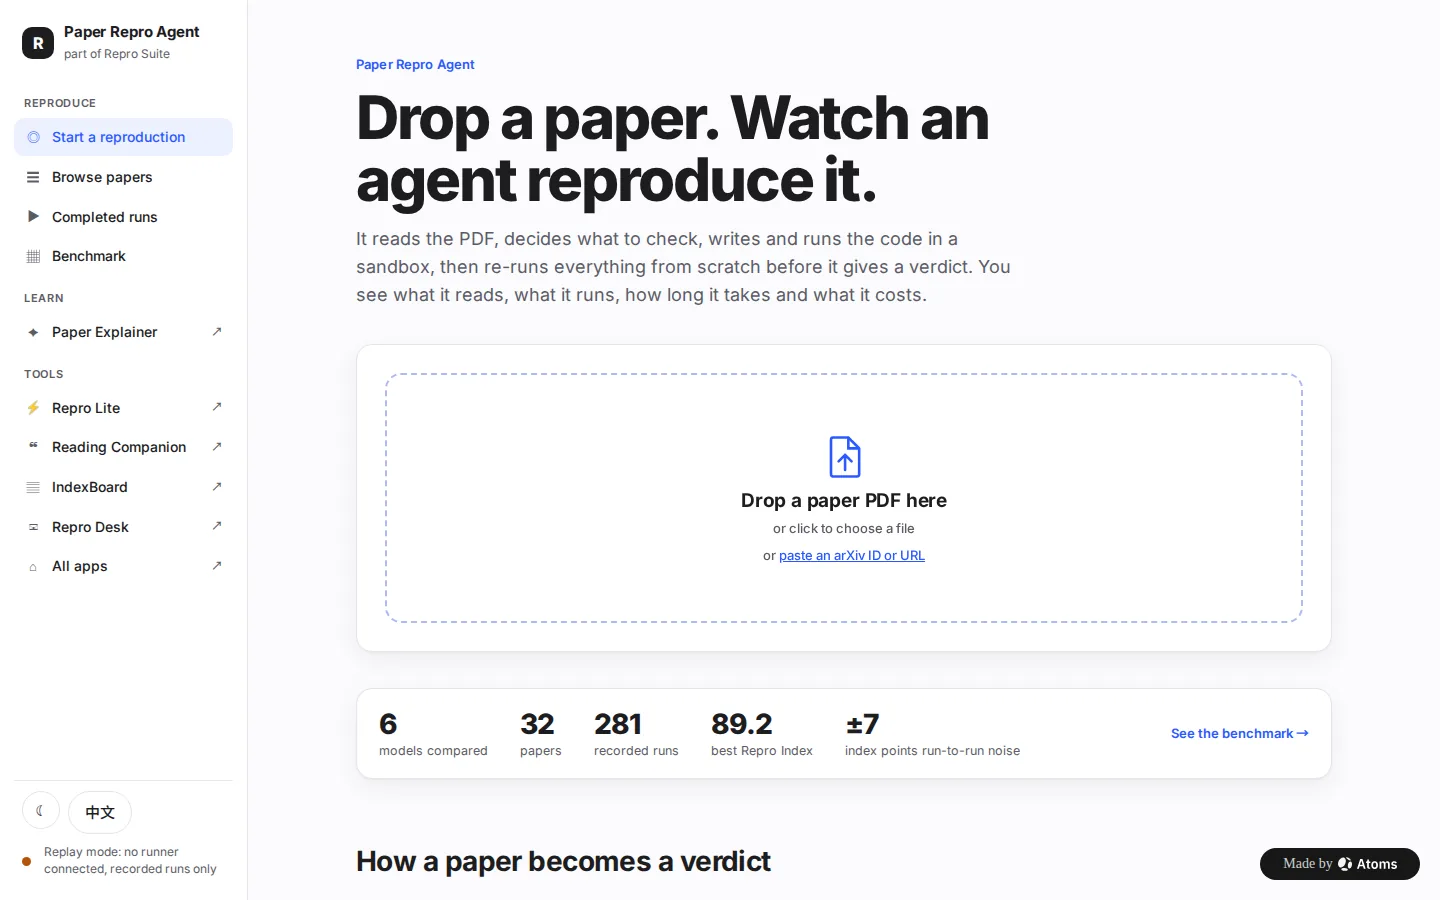
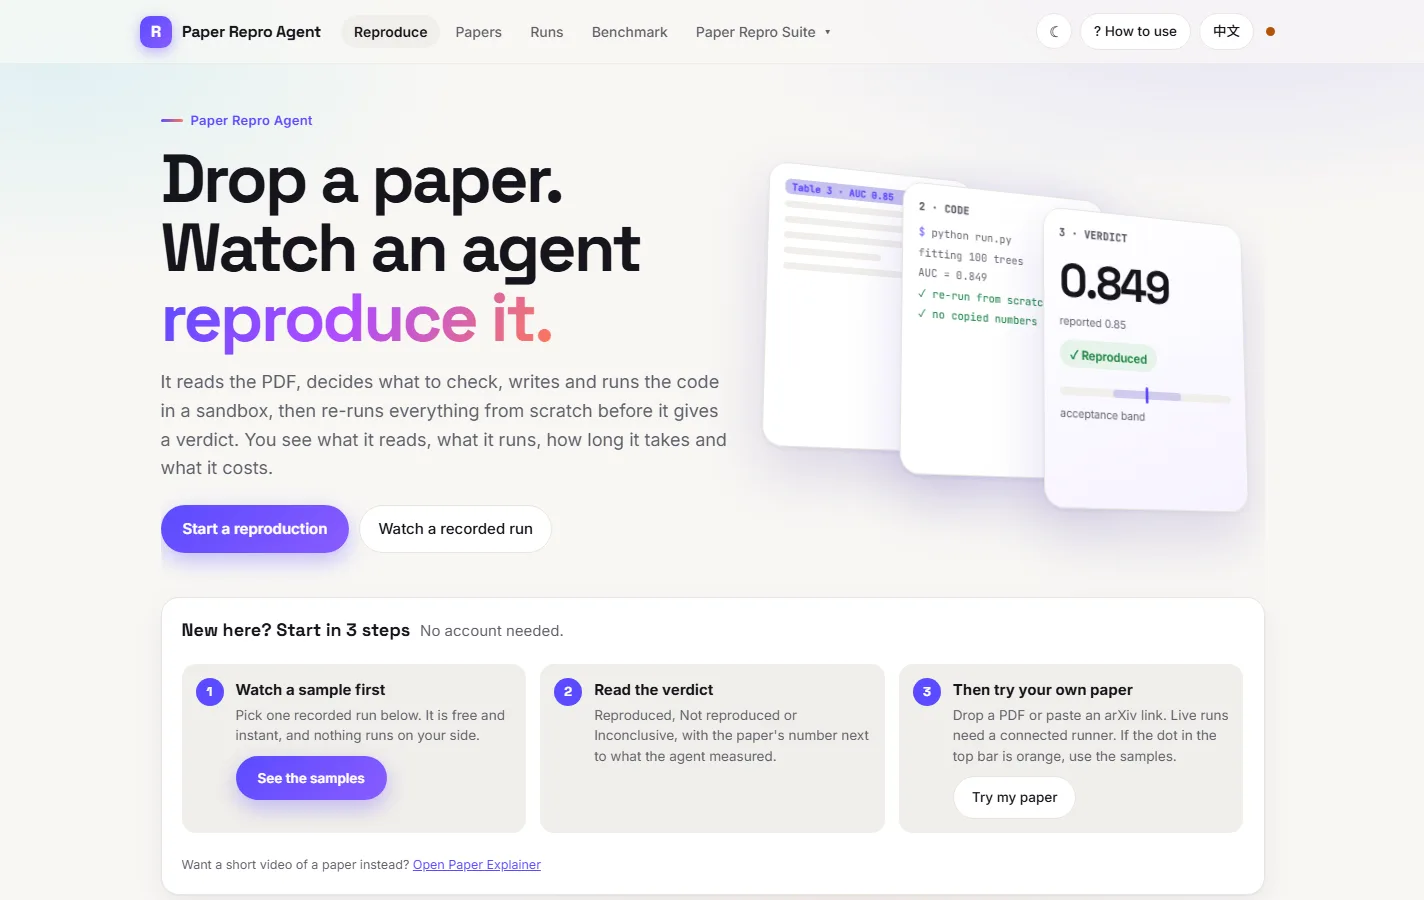
ui(hub): drop the stats row, add a Start here heading above the two cards, refresh the Agent screenshot (#9)

diff --git a/app/frontend/src/pages/Index.tsx b/app/frontend/src/pages/Index.tsx
@@ -1,6 +1,6 @@
 import { useEffect, useRef, useState, type ReactNode } from 'react';
 import SuiteTopBar from '@/components/SuiteTopBar';
-import { SuiteFaq, SuiteCta, SuiteStats } from '@/components/SuiteFooter';
+import { SuiteFaq, SuiteCta } from '@/components/SuiteFooter';
 import {
   COPY,
   EXPLAINER_FEED,
@@ -423,18 +423,16 @@ export default function Index() {
           <HeroStack lang={lang} />
         </section>
 
-        <section className="mt-12 grid gap-6 sm:mt-16 md:grid-cols-2">
-          <ExplainerCard t={t} lang={lang} feed={feed} />
-          <ReproCard t={t} lang={lang} />
-        </section>
-
-        <SuiteStats
-          items={
-            lang === 'zh'
-              ? [{ v: '32', l: '基准测试的论文' }, { v: '6', l: '对比的模型' }]
-              : [{ v: '32', l: 'papers benchmarked' }, { v: '6', l: 'models compared' }]
-          }
-        />
+        <Section
+          id="start"
+          title={lang === 'zh' ? '从这里开始' : 'Start here'}
+          sub={lang === 'zh' ? '两个工具各管一件事：先读懂论文，再核验它的数字。' : 'Two tools, one job each: understand the paper first, then check its number.'}
+        >
+          <div className="grid gap-6 md:grid-cols-2">
+            <ExplainerCard t={t} lang={lang} feed={feed} />
+            <ReproCard t={t} lang={lang} />
+          </div>
+        </Section>
 
         <Section id="fit" title={t.fitTitle} sub={t.fitSub}>
           <FlowDiagram t={t} lang={lang} />
